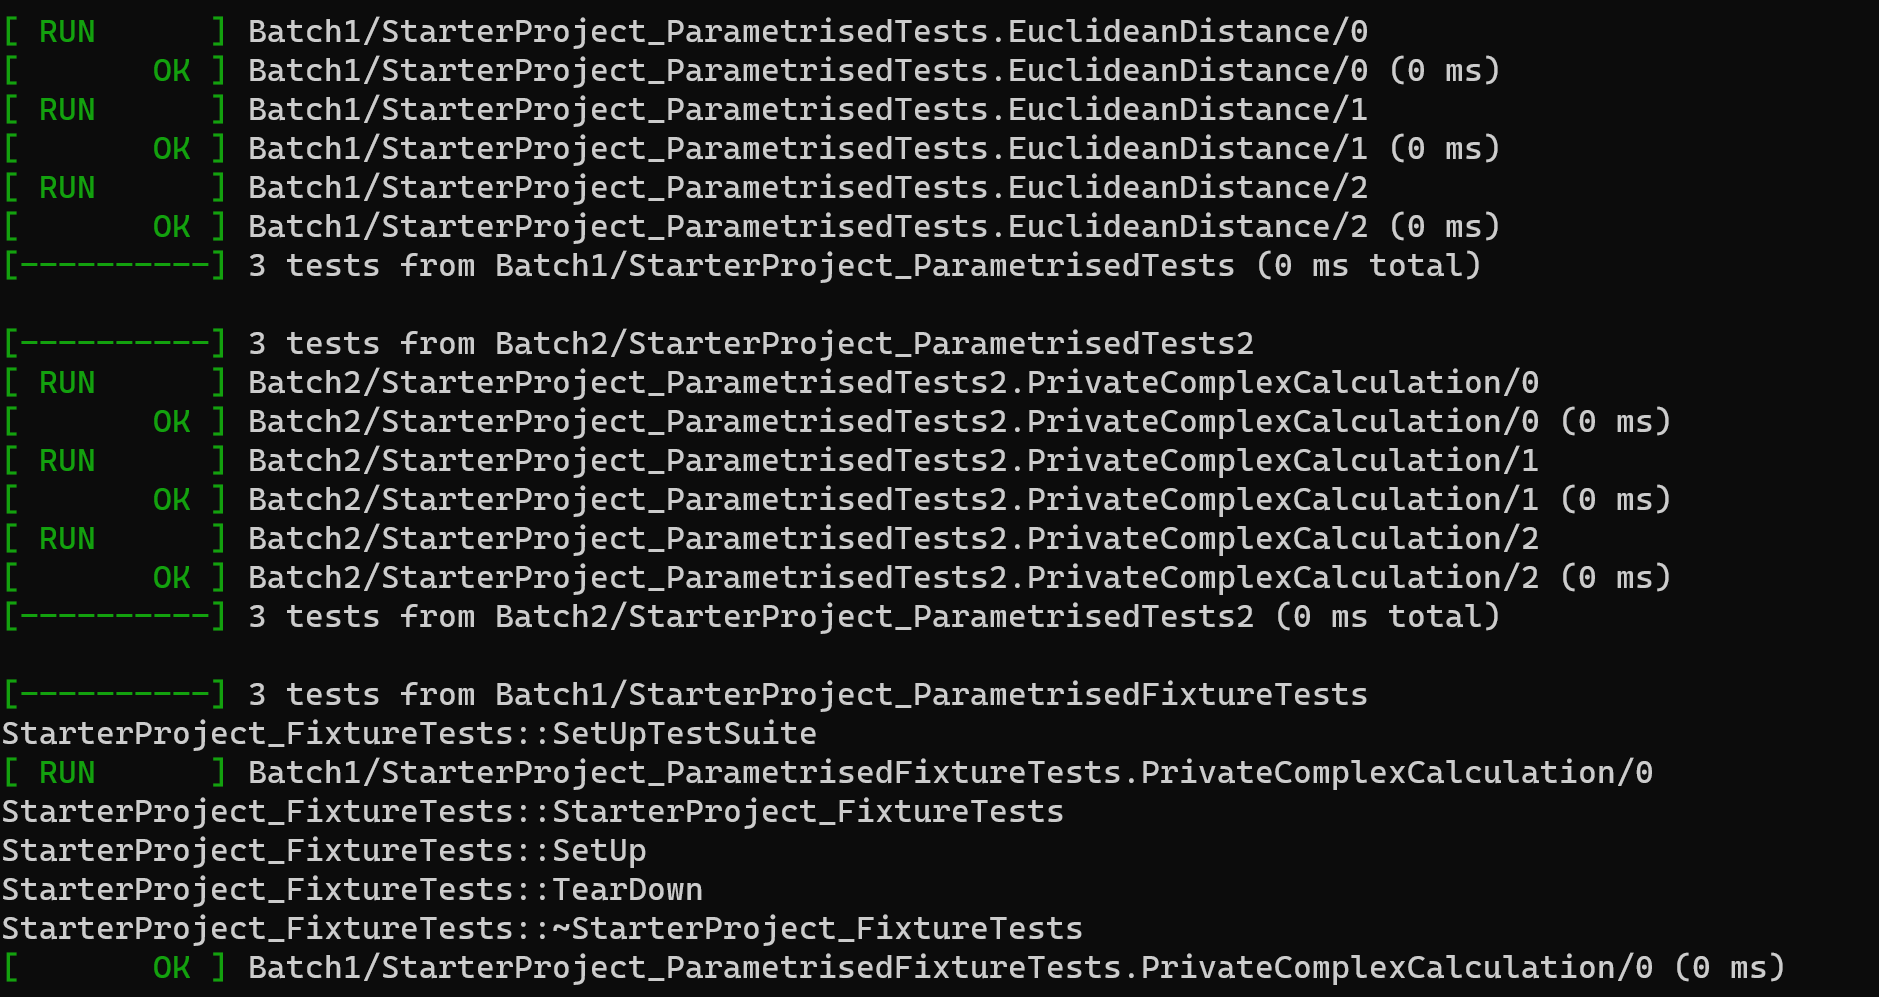
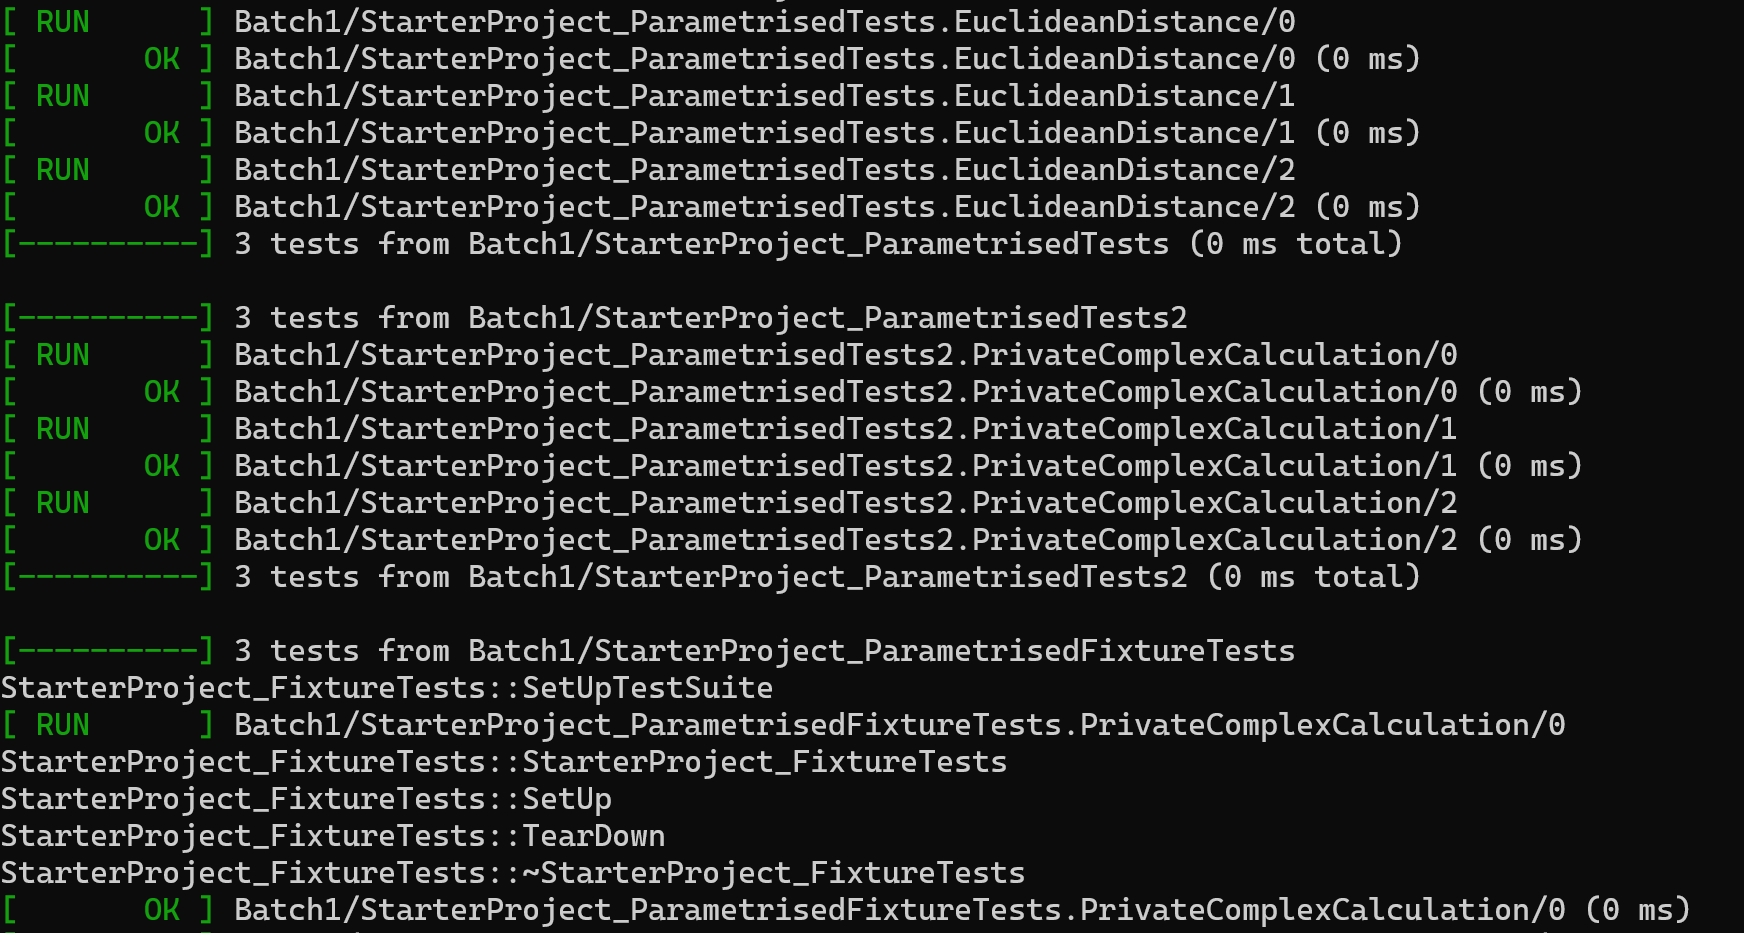
Fixed typo: in StarterProject_ParametrisedTests2 the parameters are grouped into Batch1 not Batch2; if there was a second group of paramters for the same test, then it would be called Batch2. Screenshot adjusted accordingly.

diff --git a/Tests/UnitTestStarterProject/src/StarterProject_ParametrisedTests.cpp b/Tests/UnitTestStarterProject/src/StarterProject_ParametrisedTests.cpp
@@ -51,7 +51,7 @@ TEST_P(StarterProject_ParametrisedTests2, PrivateComplexCalculation)
     );
 #else
     INSTANTIATE_TEST_SUITE_P(
-        Batch2, 
+        Batch1, 
         StarterProject_ParametrisedTests2,
         ::testing::ValuesIn(parametersCalculation2Batch1)
     );
